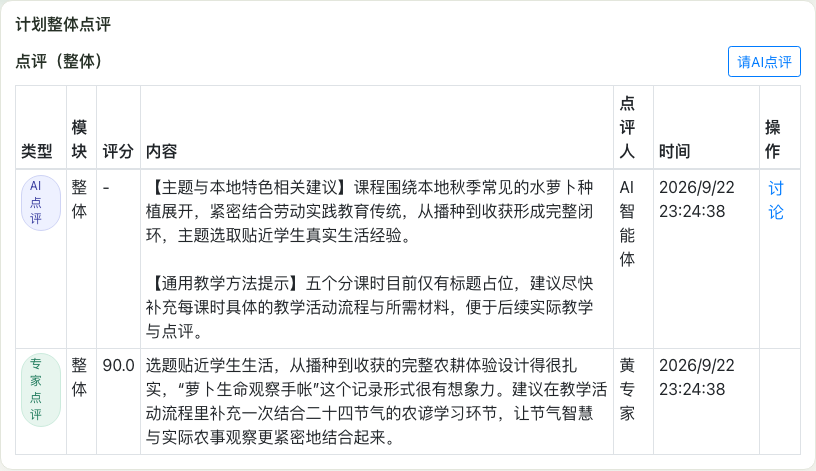
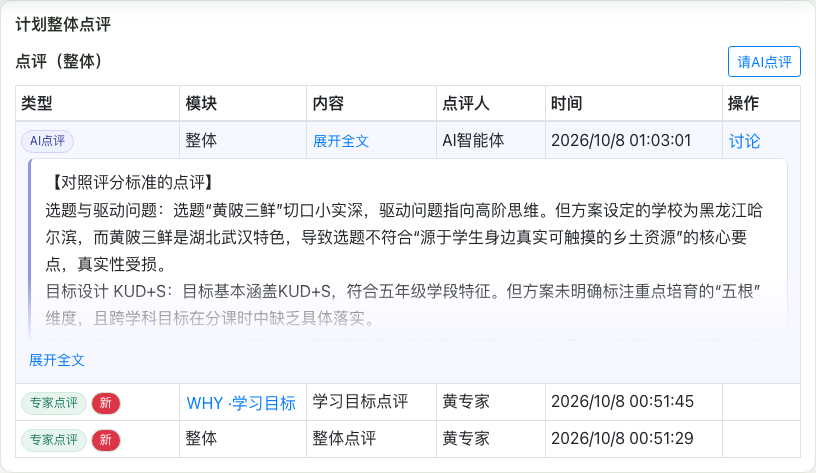
AI 点评 rows: column-aligned details + full-width, collapsible body
- An AI review renders like a draft: its details stay under their own
  column headers (tag / 模块 / 评分 / 展开全文 toggle / 点评人 / 时间 /
  讨论·删除), then the text at the table's full width on an indigo-tinted
  card. Long reviews start collapsed to ~6 faded lines with 展开全文/收起.
- Teacher manual: 第九章/第十章 describe the layout and toggle;
  review-panel.png recaptured (real local AI review, generic names).

diff --git a/react-app/src/components/review-list.component.js b/react-app/src/components/review-list.component.js
@@ -59,6 +59,10 @@ import { getPendingReviewEdit, setPendingReviewEdit, clearPendingReviewEdit, rev
 // paragraphs, which used to blow up every row's height in a list that's
 // meant to be scannable.
 const CONTENT_PREVIEW_LENGTH = 150;
+// An AI review's full-width body (see the reviewerType === "ai" rows below)
+// starts collapsed to its first few lines when longer than this -- the CSS
+// (.pl-review-ai-content.is-collapsed) does the actual clipping.
+const isLongAiContent = (content) => !!content && (content.length > 240 || content.split("\n").length > 6);
 
 // 设计's own segment sectionKeys -- both aggregates show these; 实施's
 // aggregate additionally shows EXECUTION_RECORD (see the file header
@@ -778,38 +782,99 @@ const ReviewList = (props) => {
                 );
               }
 
+              const scoreContent = review.aiScore ? (
+                // AI 打分 from the same turn/content version as this AI
+                // review -- only ever sent to experts/admins (see
+                // review.controller.js#attachAiScores); hover for the
+                // per-dimension breakdown.
+                <span
+                  style={{ cursor: "help", borderBottom: "1px dotted" }}
+                  title={[
+                    ...(review.aiScore.dimensionScores || []).map(
+                      (d) => `${d.name}：${d.score}/${d.weight}${d.level ? `（${d.level}）` : ""}`
+                    ),
+                    review.aiScore.summary && `总评：${review.aiScore.summary}`,
+                    `依据 AI 点评标准 #${review.aiScore.standardId}`,
+                  ]
+                    .filter(Boolean)
+                    .join("\n")}
+                >
+                  {review.aiScore.totalScore}
+                </span>
+              ) : review.score !== null && review.score !== undefined ? (
+                review.score
+              ) : (
+                "-"
+              );
+              const actions = (
+                <>
+                  {/* Continuing an AI review's discussion with 欣欣小助手 is
+                      reserved to the plan's owning teacher (canDiscussAi
+                      mirrors canEditPlan -- unlike canTriggerAi, which
+                      admins/experts also get on submitted plans) --
+                      not shown to an expert/admin/other-teacher viewer
+                      reading the same review, matching chat.controller.js's
+                      own ownership check on the review-scoped conversation
+                      this button opens. */}
+                  {review.reviewerType === "ai" && canDiscussAi && (
+                    <button
+                      type="button"
+                      className="btn btn-link p-0 mr-2"
+                      title="打开欣欣小助手，就这条点评继续提问"
+                      onClick={() => window.dispatchEvent(new CustomEvent("copilot:open", { detail: { reviewId: review.id } }))}
+                    >
+                      讨论
+                    </button>
+                  )}
+                  {canDelete(review) ? (
+                    <button className="btn btn-link p-0 text-danger" onClick={() => deleteReview(review)}>
+                      删除
+                    </button>
+                  ) : null}
+                </>
+              );
+
+              // An AI review runs to several paragraphs -- same two-row shape
+              // as a draft (EditableDraftRow): details under their own column
+              // headers, then the text at the table's full width, where a
+              // multi-paragraph review is actually readable. Starts collapsed
+              // to its first few lines (faded out) when long.
+              if (review.reviewerType === "ai") {
+                const isLongAi = isLongAiContent(review.content);
+                const collapsed = isLongAi && !isExpanded;
+                const toggle = isLongAi && (
+                  <button type="button" className="btn btn-link btn-sm p-0" onClick={() => toggleExpanded(review.id)}>
+                    {isExpanded ? "收起" : "展开全文"}
+                  </button>
+                );
+                return (
+                  <React.Fragment key={review.id}>
+                    <tr className="pl-review-ai-row pl-review-ai-meta">
+                      <td style={{ whiteSpace: "nowrap" }}>{typeTags}</td>
+                      {isAggregateView && <td>{moduleContent}</td>}
+                      {showScore && <td>{scoreContent}</td>}
+                      <td className="small" style={{ whiteSpace: "nowrap" }}>
+                        {toggle || <span className="text-muted">见下方</span>}
+                      </td>
+                      <td style={{ whiteSpace: "nowrap" }}>{reviewerName}</td>
+                      <td>{timeText}</td>
+                      <td style={{ whiteSpace: "nowrap" }}>{actions}</td>
+                    </tr>
+                    <tr className="pl-review-ai-row pl-review-ai-body">
+                      <td colSpan={columnCount}>
+                        <div className={`pl-review-ai-content${collapsed ? " is-collapsed" : ""}`}>{review.content}</div>
+                        {toggle && <div className="mt-1">{toggle}</div>}
+                      </td>
+                    </tr>
+                  </React.Fragment>
+                );
+              }
+
               return (
                 <tr key={review.id}>
                   <td style={{ whiteSpace: "nowrap" }}>{typeTags}</td>
                   {isAggregateView && <td>{moduleContent}</td>}
-                  {showScore && (
-                    <td>
-                      {review.aiScore ? (
-                        // AI 打分 from the same turn/content version as this AI
-                        // review -- only ever sent to experts/admins (see
-                        // review.controller.js#attachAiScores); hover for the
-                        // per-dimension breakdown.
-                        <span
-                          style={{ cursor: "help", borderBottom: "1px dotted" }}
-                          title={[
-                            ...(review.aiScore.dimensionScores || []).map(
-                              (d) => `${d.name}：${d.score}/${d.weight}${d.level ? `（${d.level}）` : ""}`
-                            ),
-                            review.aiScore.summary && `总评：${review.aiScore.summary}`,
-                            `依据 AI 点评标准 #${review.aiScore.standardId}`,
-                          ]
-                            .filter(Boolean)
-                            .join("\n")}
-                        >
-                          {review.aiScore.totalScore}
-                        </span>
-                      ) : review.score !== null && review.score !== undefined ? (
-                        review.score
-                      ) : (
-                        "-"
-                      )}
-                    </td>
-                  )}
+                  {showScore && <td>{scoreContent}</td>}
                   <td style={{ whiteSpace: "pre-wrap" }}>
                     {isLong && !isExpanded ? `${review.content.slice(0, CONTENT_PREVIEW_LENGTH)}...` : review.content}
                     {isLong && (
@@ -820,33 +885,7 @@ const ReviewList = (props) => {
                   </td>
                   <td style={{ whiteSpace: "nowrap" }}>{reviewerName}</td>
                   <td>{timeText}</td>
-                  <td>
-                    {/* Continuing an AI review's discussion with 欣欣小助手 is
-                        reserved to the plan's owning teacher (canDiscussAi
-                        mirrors canEditPlan -- unlike canTriggerAi, which
-                        admins/experts also get on submitted plans) --
-                        not shown to an expert/admin/other-teacher viewer
-                        reading the same review, matching chat.controller.js's
-                        own ownership check on the review-scoped conversation
-                        this button opens. */}
-                    {review.reviewerType === "ai" && canDiscussAi && (
-                      <button
-                        type="button"
-                        className="btn btn-link p-0 mr-2"
-                        title="打开欣欣小助手，就这条点评继续提问"
-                        onClick={() =>
-                          window.dispatchEvent(new CustomEvent("copilot:open", { detail: { reviewId: review.id } }))
-                        }
-                      >
-                        讨论
-                      </button>
-                    )}
-                    {canDelete(review) ? (
-                      <button className="btn btn-link p-0 text-danger" onClick={() => deleteReview(review)}>
-                        删除
-                      </button>
-                    ) : null}
-                  </td>
+                  <td>{actions}</td>
                 </tr>
               );
             })}

diff --git a/backend/app/services/teacherManualGenerator.js b/backend/app/services/teacherManualGenerator.js
@@ -542,6 +542,10 @@ push(
   ),
   bulletItem("AI 每次生成点评时都会参考该课程设计此前的全部点评历史，避免给出与已有点评脱节或重复的建议。"),
   bulletItem("生成结果会以「AI点评」标签显示（鼠标悬停可查看具体模型名称），与专家点评、管理员点评分列展示。"),
+  bulletItem(
+    "AI 点评以浅蓝紫色底色显示：上面一行是类型、模块、点评人、时间等信息，下面整行宽度显示点评全文，便于阅读；" +
+      "较长的 AI 点评默认只显示前几行，点击「展开全文」查看全部，点击「收起」恢复。"
+  ),
   bulletItem("「基本信息」页面会显示「AI已点评」标签，只要存在任意一条 AI 点评即会显示。"),
   warn("请求 AI 点评是所有者本人的操作（其他教师、专家、管理员无法为别人的课程设计触发 AI 点评）。")
 );
@@ -553,7 +557,7 @@ push(
   h1("十、评审轨迹与历史"),
   p(
     "每个点评板块内的点评列表均按「时间倒序」展示该部分收到的全部点评（AI点评/专家点评/管理员点评），" +
-      "包含评分、点评内容（较长内容可点击「展开」/「收起」）、点评人、点评时间等信息，构成该部分的完整评审轨迹。"
+      "包含评分、点评内容（较长内容可点击「展开」/「收起」，AI 点评为「展开全文」/「收起」）、点评人、点评时间等信息，构成该部分的完整评审轨迹。"
   ),
   bulletItem(
     "「计划整体点评」「实施整体点评」这两个整体入口还会额外显示「模块」一列，标明每条点评具体对应哪个板块/课时，" +

diff --git a/react-app/src/curriculum.css b/react-app/src/curriculum.css
@@ -2379,3 +2379,37 @@
   border-top: none;
   padding: 0 12px 12px;
 }
+
+/* An AI 点评: the same two-row shape as a draft, tinted in the AI tag's own
+   indigo (.pl-tag-ai). */
+.pl-review-ai-row > td {
+  background: #f6f7ff;
+  vertical-align: middle;
+}
+
+.pl-review-ai-meta > td {
+  border-bottom: none;
+}
+
+.pl-review-ai-body > td {
+  border-top: none;
+  padding: 0 12px 12px;
+}
+
+.pl-review-ai-content {
+  white-space: pre-wrap;
+  line-height: 1.7;
+  padding: 10px 14px;
+  background: #ffffff;
+  border: 1px solid #dfe3fa;
+  border-left: 3px solid #8f97e0;
+  border-radius: 6px;
+}
+
+/* First ~6 lines, fading out into "展开全文". */
+.pl-review-ai-content.is-collapsed {
+  max-height: calc(1.7em * 6 + 20px);
+  overflow: hidden;
+  -webkit-mask-image: linear-gradient(to bottom, #000 65%, transparent);
+  mask-image: linear-gradient(to bottom, #000 65%, transparent);
+}
